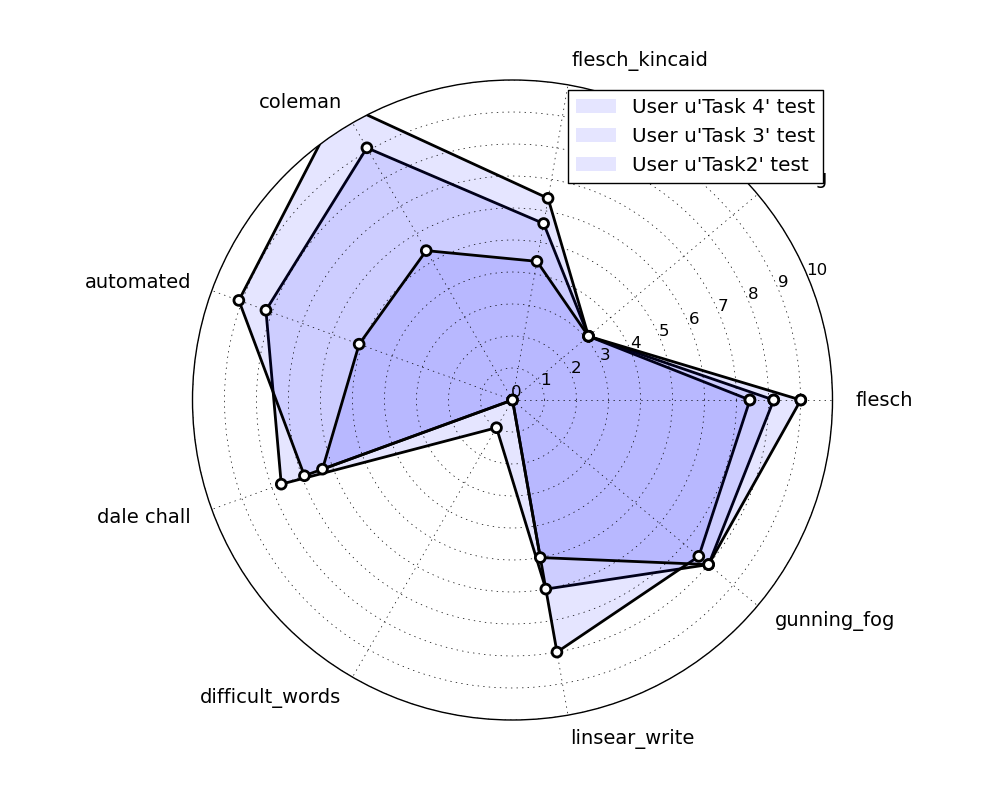
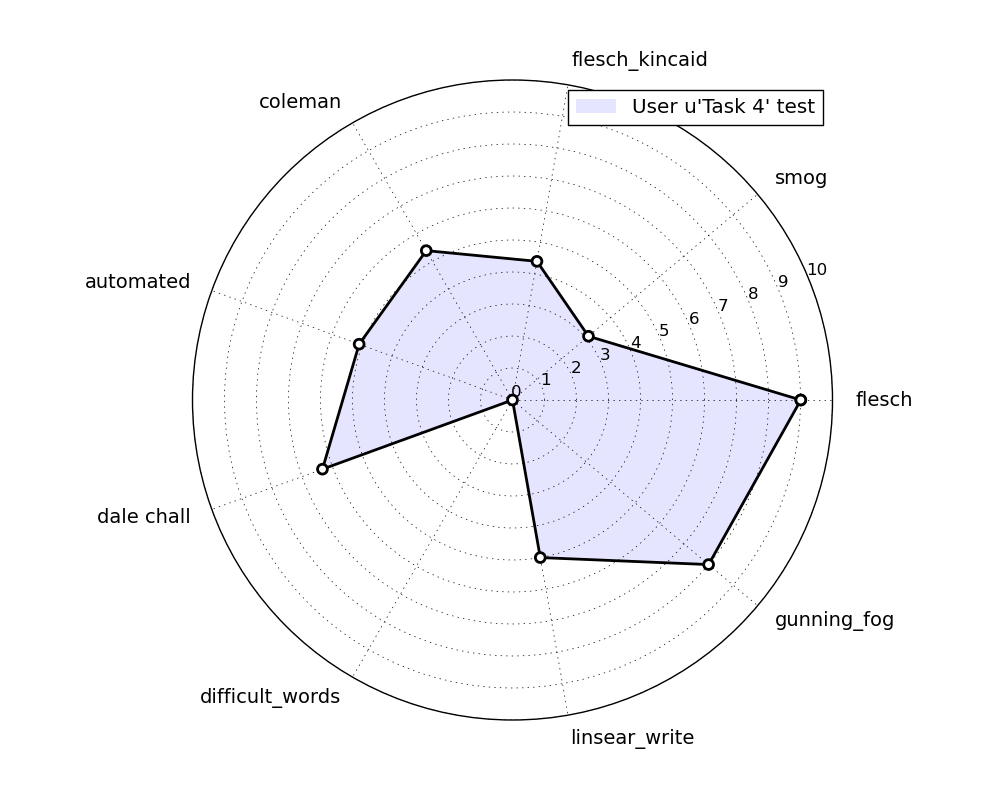
finish

Changed region(s): [[0.217, 0.125, 0.837, 0.8125]]

diff --git a/app/Http/Controllers/TextController.php b/app/Http/Controllers/TextController.php
@@ -70,53 +70,101 @@ class TextController extends Controller
 
         $data = array();
 
-        foreach ($testsforuser as $testforuser){
+        if (count($testsforuser) > 0) {
+            foreach ($testsforuser as $testforuser) {
 
-            $value = array();
+                $value = array();
 
-            $tasca=\App\Task::find($testforuser->task_id);
-            $portions=explode(" ", $tasca->name_task);
-            $folder="";
-            foreach ($portions as $portion)
-                $folder.=$portion;
-            $name_task=strtolower($folder);
-            $inf.='<h5>Task: '.$tasca->name_task.'</h5>';
-            $files=scandir("/var/www/html/masterv1/storage/uploads/".$name_task."/test/".$name_user."/");
-            foreach ($files as $file){
-                $name_file=$file;
+                $tasca = \App\Task::find($testforuser->task_id);
+                $portions = explode(" ", $tasca->name_task);
+                $folder = "";
+                foreach ($portions as $portion)
+                    $folder .= $portion;
+                $name_task = strtolower($folder);
+                $inf .= '<h5>Task: ' . $tasca->name_task . '</h5>';
+                $files = scandir("/var/www/html/masterv1/storage/uploads/" . $name_task . "/test/" . $name_user . "/");
+                foreach ($files as $file) {
+                    $name_file = $file;
+                }
+
+                $output = array();
+                $cad = "";
+                exec("python /var/www/html/masterv1/storage/python/TS_part1.py $name_task $name_user $name_file", $output);
+                foreach ($output as $line) {
+                    $cad .= "$line<br/>";
+                }
+                $inf .= '<h6>' . $cad . '</h6>';
+
+                //$inf.='<div class="page-break"></div>';
+
+                $output3 = array();
+                exec("python /var/www/html/masterv1/storage/python/TS_part3.py $name_task $name_user $name_file", $output3);
+                foreach ($output3 as $line) {
+                    $value[] = $line + 0;
+
+                }
+                $data[] = $value;
+                $data2[] = $tasca->name_task;
+                //unset($value);
             }
+            $values = escapeshellarg(json_encode($data));
+            $keys = escapeshellarg(json_encode($data2));
+            exec("python /var/www/html/masterv1/storage/python/TS_part2.py $values $keys", $output2);
+            //foreach ($output2 as $line) print "$line<br/>";
 
-            $output=array();
-            $cad="";
-            exec("python /var/www/html/masterv1/storage/python/TS_part1.py $name_task $name_user $name_file",$output);
-            foreach ($output as $line) {
-                $cad .= "$line<br/>";
-            }
-            $inf.='<h6>'.$cad.'</h6>';
-
-            //$inf.='<div class="page-break"></div>';
-
-            $output3=array();
-            exec("python /var/www/html/masterv1/storage/python/TS_part3.py $name_task $name_user $name_file",$output3);
-            foreach ($output3 as $line) {
-                $value[]=$line+0;
-
-            }
-            $data[]=$value;
-            $data2[]=$tasca->name_task;
-            //unset($value);
+            $im = imagecreatefrompng("img_text.png");
+            header('Content-Type: image/png');
+            $inf .= '<h6><img src="/var/www/html/masterv1/public/img_text.png" width="600"></h6>';
+            $inf .= '<div class="page-break"></div>';
         }
-        $values=escapeshellarg(json_encode($data));
-        $keys=escapeshellarg(json_encode($data2));
-        exec("python /var/www/html/masterv1/storage/python/TS_part2.py $values $keys",$output2);
-        //foreach ($output2 as $line) print "$line<br/>";
-
-        $im = imagecreatefrompng("img_text.png");
-        header('Content-Type: image/png');
-        $inf.='<h6><img src="/var/www/html/masterv1/public/img_text.png" width="600"></h6>';
 
 
-        $inf.='</h6></body>';
+        $trainsforuser=\App\TrainUpload::trainsforassociateduser($user->id)->get();
+        $data_train = array();
+        if (count($trainsforuser) > 0) {
+            foreach ($trainsforuser as $trainforuser) {
+
+                $value = array();
+
+                $inf .= '<h5>Train: ' . $trainforuser->name_train . '</h5>';
+
+                $portions = explode(" ", $trainforuser->name_train);
+                $folder = "";
+                foreach ($portions as $portion)
+                    $folder .= $portion;
+                $name_file = strtolower($folder);
+
+                $output = array();
+                $cad = "";
+                exec("python /var/www/html/masterv1/storage/python/TS_part5.py $name_user $name_file", $output);
+                foreach ($output as $line) {
+                    $cad .= "$line<br/>";
+                }
+                $inf .= '<h6>' . $cad . '</h6>';
+
+
+                $output3 = array();
+                exec("python /var/www/html/masterv1/storage/python/TS_part6.py $name_user $name_file", $output3);
+                foreach ($output3 as $line) {
+                    $value[] = $line + 0;
+
+                }
+                $data_train[] = $value;
+                $data2_train[] = $trainforuser->name_train;
+                //unset($value);
+            }
+
+
+            $output4 = array();
+            $values_train = escapeshellarg(json_encode($data_train));
+            $keys_train = escapeshellarg(json_encode($data2_train));
+            exec("python /var/www/html/masterv1/storage/python/TS_part4.py $values_train $keys_train", $output4);
+            $im2 = imagecreatefrompng("img_train.png");
+            header('Content-Type: image/png');
+            $inf .= '<h6><img src="/var/www/html/masterv1/public/img_train.png" width="600"></h6>';
+        }
+
+        $inf.='</body>';
         $pdf = \App::make('dompdf.wrapper');
         $pdf->loadHTML("$inf");
 

diff --git a/app/Http/Controllers/TextController_copy.php b/app/Http/Controllers/TextController_copy.php
@@ -67,7 +67,13 @@ class TextController extends Controller
         $inf='<html><head><title> Document Classification - Tesxt Statistics</title><meta http-equiv="Content-Type" content="text/html; charset=utf-8"/></head><body>';
         $inf.='<style>.page-break {page-break-after: always;}</style>';
         $inf.='<h5>User: '.$user->name.'</h5>';
+
+        $data = array();
+
         foreach ($testsforuser as $testforuser){
+
+            $value = array();
+
             $tasca=\App\Task::find($testforuser->task_id);
             $portions=explode(" ", $tasca->name_task);
             $folder="";
@@ -83,29 +89,44 @@ class TextController extends Controller
             $output=array();
             $cad="";
             exec("python /var/www/html/masterv1/storage/python/TS_part1.py $name_task $name_user $name_file",$output);
-            foreach ($output as $line)
-                $cad.="$line<br/>";
+            foreach ($output as $line) {
+                $cad .= "$line<br/>";
+            }
+            $inf.='<h6>'.$cad.'</h6>';
 
-            $name_file2=substr($name_file,0,-4);
-            exec("touch ".$name_file2.".png");
-            chmod('/var/www/html/masterv1/public/'.$name_file2.'.png', 0777);
+            //$inf.='<div class="page-break"></div>';
 
-            exec("python /var/www/html/masterv1/storage/python/TS_part2.py $name_task $name_user $name_file");
+            $output3=array();
+            exec("python /var/www/html/masterv1/storage/python/TS_part3.py $name_task $name_user $name_file",$output3);
+            foreach ($output3 as $line) {
+                $value[]=$line+0;
 
-            $im = imagecreatefrompng("file3.png");
-            header('Content-Type: image/png');
+            }
+            $data[]=$value;
+            $data2[]=$tasca->name_task;
+            //unset($value);
+        }
+        $values=escapeshellarg(json_encode($data));
+        $keys=escapeshellarg(json_encode($data2));
+        exec("python /var/www/html/masterv1/storage/python/TS_part2.py $values $keys",$output2);
+        //foreach ($output2 as $line) print "$line<br/>";
 
-            $inf.='<h6>'.$cad.'<img src="/var/www/html/masterv1/public/file3.png" width="600"></h6>';
-            $inf.='<div class="page-break"></div>';
-         }
+        $im = imagecreatefrompng("img_text.png");
+        header('Content-Type: image/png');
+        $inf.='<h6><img src="/var/www/html/masterv1/public/img_text.png" width="600"></h6>';
+
+
         $inf.='</h6></body>';
         $pdf = \App::make('dompdf.wrapper');
         $pdf->loadHTML("$inf");
 
-        imagedestroy($im);
+
+        //imagedestroy($im);
         //return $pdf->download($name_user.'.pdf');
         return $pdf->stream();
 
     }
+
+
 
 }

diff --git a/storage/python/TS_part4.py b/storage/python/TS_part4.py
@@ -1,0 +1,91 @@
+#! /usr/bin/env python
+import sys, json
+import os
+import numpy as np
+import matplotlib
+matplotlib.use( 'Agg' )
+import matplotlib.path as path
+import matplotlib.pyplot as plt
+import matplotlib.patches as patches
+from textstat import textstat
+
+import codecs
+
+data = json.loads(sys.argv[1])
+data2 = json.loads(sys.argv[2])
+#print json.dumps(data[0])
+
+# Data to be represented
+# ----------
+properties = ["flesch", "smog", "flesch_kincaid", "coleman", "automated", "dale chall", "difficult_words","linsear_write","gunning_fog"]
+
+#values = np.random.uniform(5,9,len(properties))
+
+# ----------
+
+# Choose some nice colors
+matplotlib.rc('axes', facecolor = 'white')
+
+# Make figure background the same colors as axes 
+fig = plt.figure(figsize=(10,8), facecolor='white')
+
+# Use a polar axes
+axes = plt.subplot(111, polar=True)
+
+# Set ticks to the number of properties (in radians)
+t = np.arange(0,2*np.pi,2*np.pi/len(properties))
+plt.xticks(t, [])
+
+# Set yticks from 0 to 10
+plt.yticks(np.linspace(0,10,11))
+
+i=0
+for values in data:
+    # Draw polygon representing values user train
+    points = [(x,y) for x,y in zip(t,values)]
+    points.append(points[0])
+    points = np.array(points)
+    codes = [path.Path.MOVETO,] + \
+            [path.Path.LINETO,]*(len(values) -1) + \
+            [ path.Path.CLOSEPOLY ]
+    _path = path.Path(points, codes)
+    #_patch = patches.PathPatch(_path, fill=True, color='blue', linewidth=0, alpha=.1, label="User %r train" % data2[1])
+    _patch = patches.PathPatch(_path, fill=True, color='blue', linewidth=0, alpha=.1, label="User %r train" % data2[i])
+    axes.add_patch(_patch)
+    _patch = patches.PathPatch(_path, fill=False, linewidth = 2)
+    axes.add_patch(_patch)
+
+    # Draw circles at value points
+    plt.scatter(points[:,0],points[:,1], linewidth=2,
+                s=50, color='white', edgecolor='black', zorder=10)
+    i=i+1
+
+
+
+
+
+
+
+# Set axes limits
+plt.ylim(0,10)
+
+# Draw ytick labels to make sure they fit properly
+for i in range(len(properties)):
+    angle_rad = i/float(len(properties))*2*np.pi
+    angle_deg = i/float(len(properties))*360
+    ha = "right"
+    if angle_rad < np.pi/2 or angle_rad > 3*np.pi/2: ha = "left"
+    plt.text(angle_rad, 10.75, properties[i], size=14,
+             horizontalalignment=ha, verticalalignment="center")
+
+    # A variant on label orientation
+    #    plt.text(angle_rad, 11, properties[i], size=14,
+    #             rotation=angle_deg-90,
+    #             horizontalalignment='center', verticalalignment="center")
+
+
+#plt.legend(["User train", "User Task Test"])
+
+plt.legend()
+plt.savefig('img_train.png')
+#plt.show()

diff --git a/storage/python/TS_part5.py b/storage/python/TS_part5.py
@@ -1,0 +1,25 @@
+#! /usr/bin/env python
+import sys
+import os
+import numpy as np
+import matplotlib
+import matplotlib.path as path
+import matplotlib.pyplot as plt
+import matplotlib.patches as patches
+from textstat import textstat
+import codecs
+
+test_data =  codecs.open('/var/www/html/masterv1/storage/uploads/train/%s/%s' % (sys.argv[1],sys.argv[2])).read().lower()
+
+A= (textstat.flesch_reading_ease(test_data)/10)
+B= (textstat.smog_index(test_data))
+C= (textstat.flesch_kincaid_grade(test_data))
+D= (textstat.coleman_liau_index(test_data))
+E= (textstat.automated_readability_index(test_data))
+F= (textstat.dale_chall_readability_score(test_data))
+G= ((textstat.difficult_words(test_data))/100)
+H= (textstat.linsear_write_formula(test_data))
+I= (textstat.gunning_fog(test_data))
+J= (textstat.text_standard(test_data)[0])
+K=(textstat.text_standard(test_data))
+print("flesch_reading_ease: %r \n Smog Index: %r \n flesch_kincaid_grade: %r \n coleman_liau_index %r \n automated_readability_index %r \n dale_chall %r \n difficult_words %r \n linsear_write_formula %r \n gunning_fog %r \n text_standard %r" %(A,B,C,D,E,F,G,H,I,K))

diff --git a/storage/python/TS_part6.py b/storage/python/TS_part6.py
@@ -1,0 +1,34 @@
+#! /usr/bin/env python
+import sys
+import os
+import numpy as np
+import matplotlib
+import matplotlib.path as path
+import matplotlib.pyplot as plt
+import matplotlib.patches as patches
+from textstat import textstat
+import codecs
+
+test_data =  codecs.open('/var/www/html/masterv1/storage/uploads/train/%s/%s' % (sys.argv[1],sys.argv[2])).read().lower()
+
+A= (textstat.flesch_reading_ease(test_data)/10)
+B= (textstat.smog_index(test_data))
+C= (textstat.flesch_kincaid_grade(test_data))
+D= (textstat.coleman_liau_index(test_data))
+E= (textstat.automated_readability_index(test_data))
+F= (textstat.dale_chall_readability_score(test_data))
+G= ((textstat.difficult_words(test_data))/100)
+H= (textstat.linsear_write_formula(test_data))
+I= (textstat.gunning_fog(test_data))
+J= (textstat.text_standard(test_data)[0])
+K=(textstat.text_standard(test_data))
+#print("%r %r %r %r %r %r %r %r %r " %(A,B,C,D,E,F,G,H,I))
+print(A)
+print(B)
+print(C)
+print(D)
+print(E)
+print(F)
+print(G)
+print(H)
+print(I)
